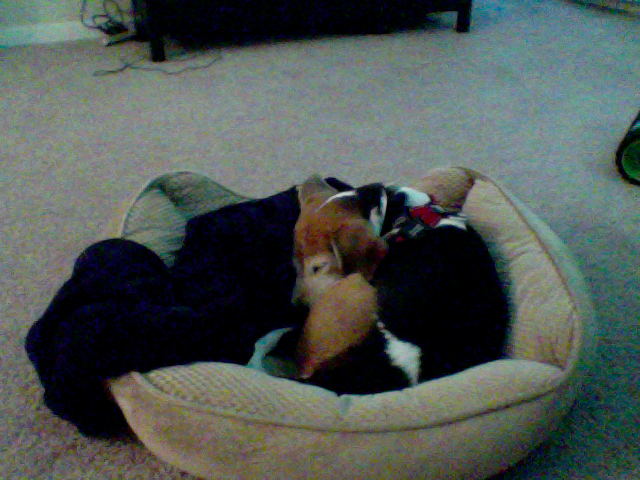
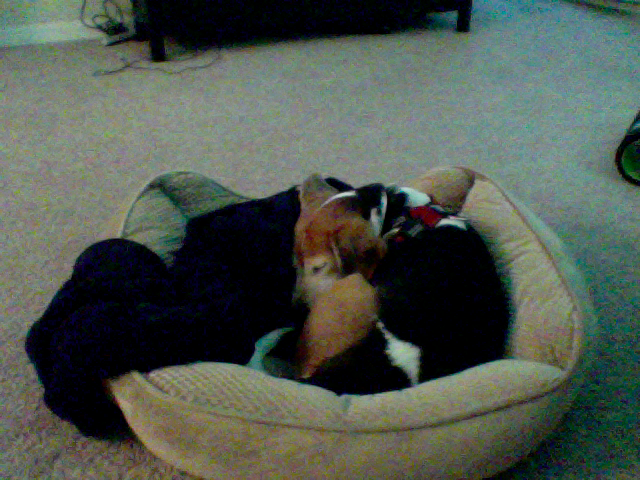
update at Month05Day13Time10:19

Changed region(s): [[0.0, 0.0, 1.0, 1.0], [0.6562, 0.5312, 0.6875, 0.5625], [0.4062, 0.2188, 0.4375, 0.25]]

diff --git a/index.html b/index.html
@@ -39,8 +39,8 @@
       <!-- Example row of columns -->
       <div class="row">
         <div class="col-md-4">
-	<p>This picture was updated at Month05Day13Time10:18</p>
-		<img src="2_pic.png" />
+	<p>This picture was updated at Month05Day13Time10:19</p>
+		<img src="1_pic.png" />
         </div>
       </div>
 
